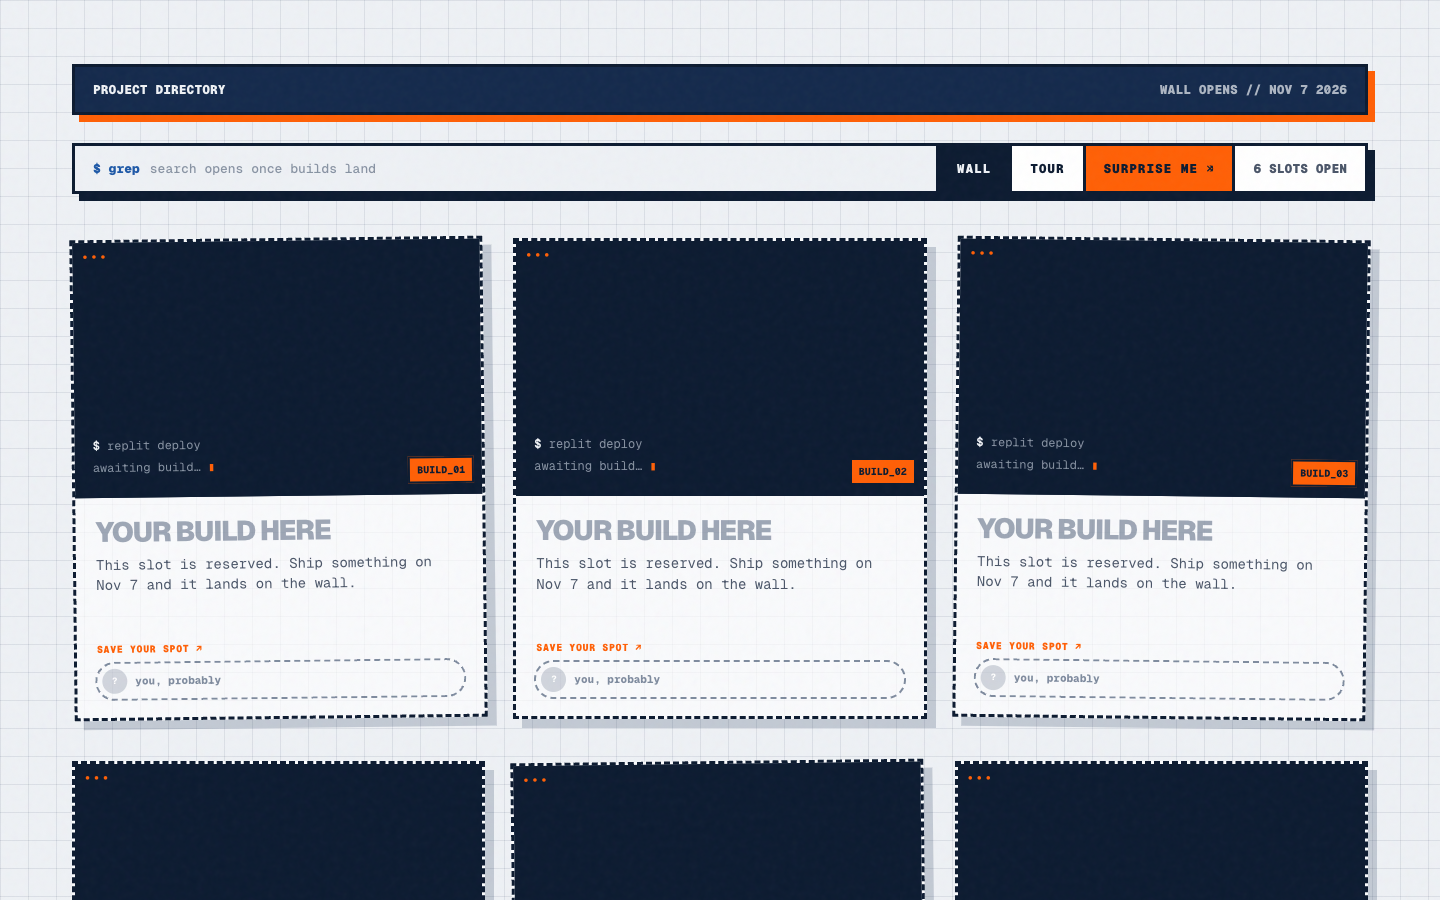
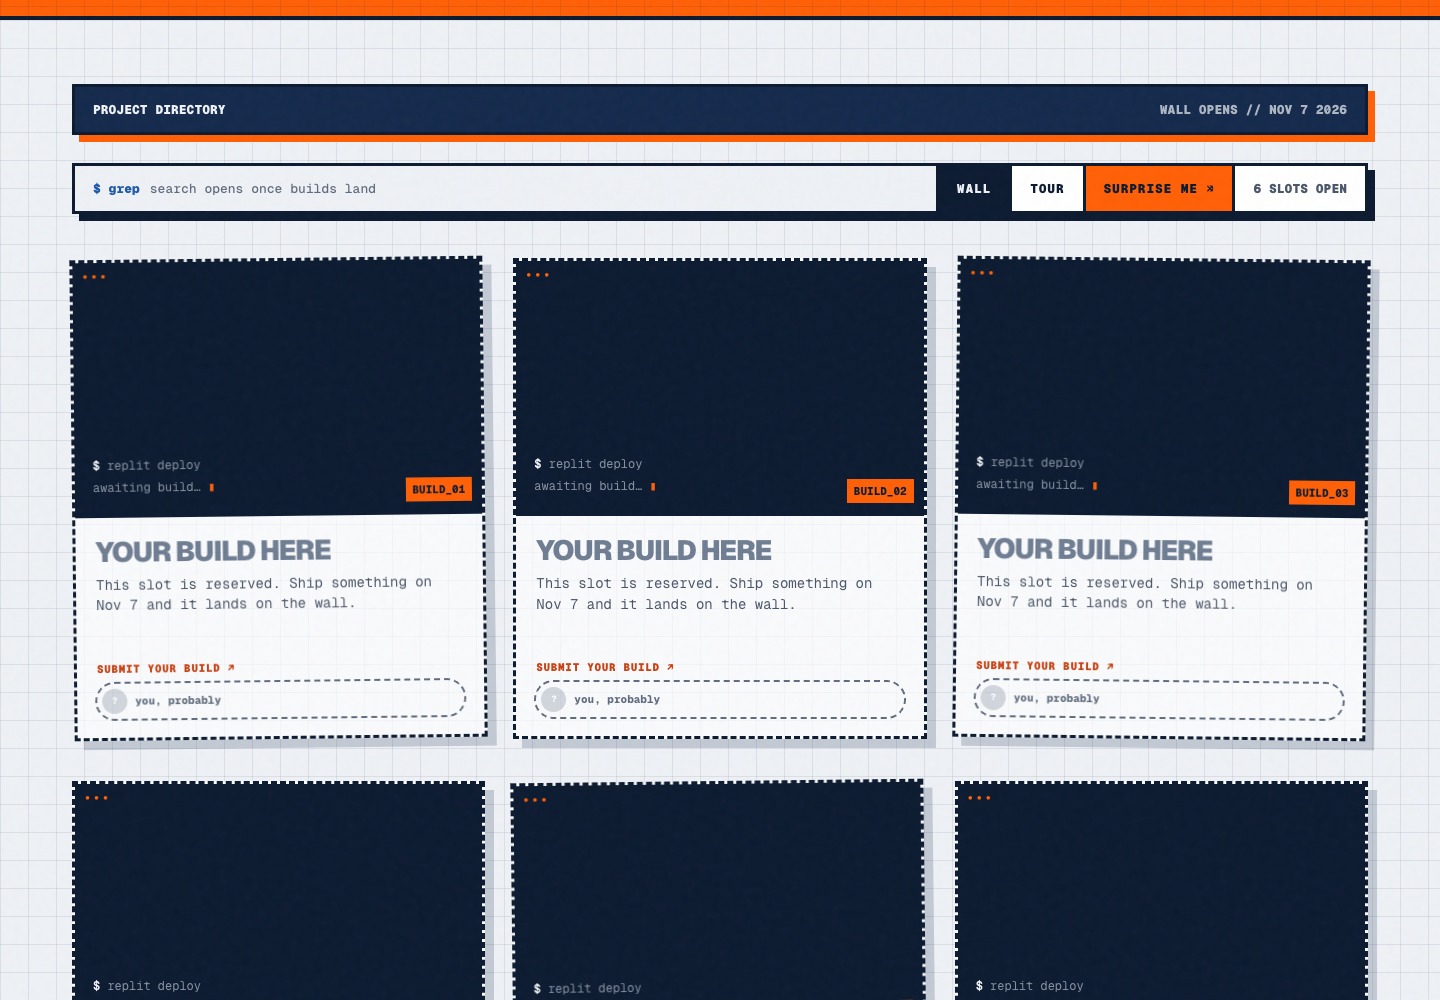
docs: README

diff --git a/README.md b/README.md
@@ -1,127 +1,153 @@
-<p align="center"><img src="app/apple-icon.png" width="88" height="88" alt="The Illinois Block I icon, orange on Illini blue"></p>
+# UIUC Learnathon
 
-# Disruption Lab × Replit Learnathon
+**The event site for Disruption Lab × Replit's build day at UIUC: sign-up steps, schedule and awards before the event, a wall of every attendee's live app after it.**
 
-**The event site and project wall for a beginner AI build day at UIUC.** Before the event it gets students signed up; afterwards it becomes a public wall of every app they shipped with Replit.
+**[Try it → learnathon.bhanusadhu.com](https://learnathon.bhanusadhu.com)** (free, no sign-in)
 
-**[Visit → learnathon.bhanusadhu.com](https://learnathon.bhanusadhu.com)** · Saturday, Nov 7, 2026, CIF Monumental Steps.
-
-![Demo, recorded before the event: the hero counts down to build day, the event details open, the guide shows the sign-up steps, the FAQ answers "Do I need coding experience?", and the project wall shows reserved "Your build here" slots, then tour mode steps through them](docs/images/demo.gif)
+![30-second screen recording in dark mode: the build-day popover opens, the event guide scrolls past, then the project wall switches to tour mode and picks a random slot with Surprise Me](docs/images/demo.gif)
 
 ## The problem
 
-Most students have heard you can build an app with AI, but few have shipped one, and a club workshop usually ends with half-finished projects on laptops that nobody sees again. The Disruption Lab at Gies and Replit wanted an afternoon where anyone, with no coding experience, leaves with a live app. Every one of those apps should then have somewhere public to live.
+A three-hour build day for beginners produces a pile of Replit apps and nowhere to put them. The apps end up as links in a group chat, the organizers need a sign-up flow and a schedule in the meantime, and attendees who built something have no single page to share.
 
-The goal: **turn interest into sign-ups before Nov 7, and turn every app shipped that day into a link on the wall.**
+The goal: **every attendee who builds ends the day with a live app on one public wall, and a link they can send to anyone.**
 
 ## How it works
 
-1. **Get interested.** The hero states the promise (one afternoon, zero experience, a live app) and counts down to build day. The details card has the time, place, calendar links and directions.
-2. **Sign up.** Three required steps in order: a Luma RSVP, a pre-event form, and a post-event form at the end of the day that also puts the build on the wall.
-3. **Build.** On the day, students build with Replit and publish their app.
-4. **Land on the wall.** Submissions are imported into the site, each live app is screenshotted, and the build gets a card, its own share page and, for winners, an award ribbon.
-5. **Browse.** Search the wall, let tour mode cycle through builds every 8 seconds on a big screen, or hit Surprise me.
+1. **RSVP** on Luma. This is the headcount and is required to attend.
+2. **Pre-event form** (Google Form). Required, so the organizers know who is coming.
+3. **Build** with Replit at the CIF Monumental Steps, 12:45 to 2:10 PM, after a talk and live demo from Replit's Head of Education.
+4. **Submit your Replit link** in the post-event form at 2:10. No form, no spot on the wall.
+5. **Showcase**: the organizers import the responses, and the wall fills with one card per build. Winners get a ribbon and the top spots.
 
-<p align="center"><img src="docs/images/guide.png" width="80%" alt="The event guide: three numbered steps (Luma RSVP, pre-event form, post-event form), then itinerary, prizes, food and an FAQ"></p>
+![Event guide section: three numbered steps, itinerary with calendar buttons, prizes and awards, perks, guest card and FAQ](docs/images/guide.png)
 
 ## Product decisions
 
 | Decision | Trade-off |
 | --- | --- |
-| **A static site fed by one JSON file, no database** | Updating the wall means importing and redeploying. In return there is nothing to log into and nothing to break on event day, and hosting is free. |
-| **Google Forms for the pre-event form and submissions** | Exports are manual CSV downloads. But organizers already run forms there, students trust them, and uploads like headshots come for free. |
-| **The wall is live before the event, with reserved slots** | An empty wall looks bare. Showing "Your build here" slots makes the promise concrete, and each slot links to sign-up. |
-| **No form, no spot on the wall** | Some builds won't appear. The post-event form is how a student consents to being shown and gives the right link. |
-| **One config for the event** | Date, time, place, links and FAQ live in one file, so a change to the domain or time updates the page, the link previews and the calendar files together. |
-| **Built for a projector too** | Tour mode and Surprise me add code. But the wall gets shown on a screen during the event, so it needed to play by itself. |
+| **No database: content lives in two files and git** (`data/event.ts`, `data/projects.json`) | Updating the site means editing a file and pushing, not clicking in an admin panel. In return there is no backend to fail on event day, the whole site is static, and hosting costs $0. |
+| **Submissions go through a Google Form, not an in-app form** | An organizer runs one import command per batch instead of builds appearing live. In return there is no auth, no spam surface and no moderation queue to build. |
+| **Three required steps (RSVP, pre-form, post-form)** | More friction than one sign-up. The cost buys a headcount before the day and a Replit link from every attendee at 2:10, which is what fills the wall. |
+| **The wall opens before the event with 6 reserved slots** | A "your build here" placeholder is less honest than hiding the wall, but an empty page would not show what attendees are building toward. Search stays off until real builds exist. |
+| **Tour mode for the projector** | Auto-advances every 8 seconds with pause and arrow keys. It is built for the awards showcase, so the grid stays the default on phones. |
+| **Several winners can share "Honorable Mention"** | The award string is `Honorable Mention: <reason>`, so reasons can be decided on the day without a code change. Winners are listed in a dropdown in the guide. |
+
+![Project wall before the event: a search bar, wall and tour toggle, a Surprise Me button, and a grid of six reserved build slots](docs/images/wall.png)
 
 ## Architecture
 
 ```mermaid
 flowchart TD
-  subgraph forms["Event day"]
+  subgraph Intake["Intake"]
     direction LR
-    form["Google Form<br/>post-event submissions"] --> csv["Responses CSV<br/>+ headshot uploads"]
+    form["Post-event<br/>Google Form"] --> csv["CSV export"] --> imp["import-form"] --> shots["screenshots"]
   end
-  subgraph pipe["Import, on a laptop"]
+  subgraph Source["Content"]
     direction LR
-    imp["import-form<br/>CSV to projects.json"] --> shots["screenshots<br/>Chrome captures each app"]
+    event["data/event.ts"] ~~~ json["data/projects.json"]
   end
-  subgraph site["Next.js on Vercel"]
+  subgraph Build["Next.js build"]
     direction LR
-    wall["Wall<br/>search, tour, surprise"] ~~~ pages["Project pages<br/>share images"] ~~~ cal["Calendar<br/>Google link, .ics"]
+    pages["Wall + /p/slug pages"] ~~~ og["Link-preview images"] ~~~ ics["learnathon.ics"]
   end
-  forms --> pipe
-  pipe -->|"commit and push"| site
+  subgraph Browser["Browser"]
+    direction LR
+    wall["Search, tour,<br/>surprise me"] ~~~ clock["Countdown"]
+  end
+  Intake --> Source --> Build --> Browser
 ```
 
-Every page, including one per project, is generated at build time from `data/event.ts` and `data/projects.json`. → [`data/event.ts`](data/event.ts), [`lib/projects.ts`](lib/projects.ts)
+Everything is prerendered at build time (7 routes, no server code at runtime). `import-form` and `screenshots` run on an organizer's laptop; Vercel rebuilds on every push to `main`. The only client-side state is the wall's search, view mode and the countdown.
 
 ## Hard problems
 
-**A form becomes a wall without a backend.** The importer turns the responses CSV into `projects.json` and matches headshot uploads back to their rows by the file names Google Forms gives them ("photo - Respondent Name.jpg"). Re-running it is safe: fields set by hand, like a winner's award and the screenshot path, are kept by slug, so organizers can import, pick winners and import again. → [`scripts/import-form.mjs`](scripts/import-form.mjs)
+**One source of truth for a page that changes state.** The site has to work as an invite before the event and a showcase after it, and every date, link and prize shows up in several places (hero, popover, guide, FAQ, calendar, link preview). All of it reads from [data/event.ts](data/event.ts). The Google Calendar link and the `.ics` file in [lib/calendar.ts](lib/calendar.ts) are generated from the same start and end timestamps, with RFC 5545 escaping and 75-octet line folding. The page title, link preview and hero copy switch on `projects.length`, so importing the first build flips the site from invite to showcase with no other change.
 
-**A screenshot of every live app.** Each card needs a picture of the app itself, not a logo. A script opens every submitted Replit link in the installed Chrome, captures it, and records the path. By default it only shoots projects that don't have one yet, and it can redo everything or a chosen few. → [`scripts/screenshots.mjs`](scripts/screenshots.mjs)
+**An importer that is safe to re-run.** Form exports are messy: quoted fields, newlines inside answers, duplicate submissions, and headshot uploads that Google names `<original name> - <Respondent Name>.jpg`. [scripts/import-form.mjs](scripts/import-form.mjs) has its own RFC 4180 parser, matches columns by header pattern, keeps the latest submission per project title, and matches uploads back to rows by respondent name. Re-running keeps `award` and `screenshot` fields already in `projects.json` (matched by slug), so organizers can import, set winners and import again. It reports unmatched columns and skipped rows instead of guessing.
 
-**Links that look right when shared.** Every build has its own static page with a generated preview image, so a student's link shows their project in a group chat, not the event. The event's own preview image uses the same type and optical alignment as the headline, and the calendar invite and Google Calendar link are generated from the same event config. → [`app/p/[slug]`](app/p/%5Bslug%5D)
+**Smooth scroll, scroll reveals and React fighting each other.** Combining Lenis, in-page anchors and React re-renders caused three problems, each fixed with a comment in the code:
+- Lenis's own `anchors` option does not cancel the browser's native jump, so the two animated against each other. [SmoothScroll.tsx](components/SmoothScroll.tsx) handles `#` links itself.
+- React rewrites `className` on re-render and would drop the "revealed" class and hide cards that had already animated in. [Reveal.tsx](components/Reveal.tsx) marks revealed elements with a `data-in` attribute.
+- Award links in the guide have to open a card in the wall, even from tour view or a filtered search. [WallBrowser.tsx](components/WallBrowser.tsx) listens in the capture phase so it runs before the scroll handler, clears search and switches back to the grid first.
+
+Users who prefer reduced motion get plain scrolling, no reveals and a tour that does not auto-advance.
 
 ## Results
 
-The event hasn't happened yet, so there are no outcomes to report. What it will be judged on is the funnel the site is built around:
+| Check | Result | What it means |
+| --- | --- | --- |
+| Lighthouse, desktop (live site) | **100 / 100 / 100 / 100** | Performance, accessibility, best practices, SEO. LCP **0.6 s**, CLS **0**. |
+| Lighthouse, mobile (live site) | **94 / 100 / 100 / 100** | Same four categories. LCP **3.0 s**, CLS **0**, TBT **10 ms**. |
+| `tsc --noEmit` | **0 errors** | The whole app is strict TypeScript. |
+| `next build` | **7 routes**, all static | No runtime server code to fail. |
 
-| Step | Counted from |
-| --- | --- |
-| RSVPed | Luma RSVPs |
-| Registered | Pre-event form responses |
-| Shipped | Post-event form submissions |
-| On the wall | Projects in `data/projects.json` |
+Scores come from Lighthouse 12 run against the production URL with its default throttling.
 
-Checked so far: the site builds statically, with a page per project. An accessibility and craft pass from a design audit covered contrast, focus and motion. Smooth scrolling and reveal animations respect reduced-motion settings.
+**Not measured yet:** there are no automated tests in this repo, so the importer and the award matching are checked by hand. There is no real-user data, since the event had not happened when this was written. Whether attendees actually submit a build, and how many, is the number that decides if the site worked.
 
 ## How it was built
 
-1. **The wall first.** A project data model, the event config, and a wall of project cards with empty slots in UIUC branding.
-2. **The pipeline.** The Google Form importer and the automatic screenshot script.
-3. **The event page.** Event guide, countdown, form links, calendar files, FAQ and Disruption Lab socials.
-4. **Identity.** The Illinois palette (Illini blue, orange accents), the Block I icon, and a headline tuned until it matched the link preview.
-5. **Browsing.** Wall search, tour mode, Surprise me and per-project share pages, then an accessibility and craft pass.
+1. **Wall first.** Scaffolded Next.js and Tailwind, defined the project data model, and built the card wall with reserved empty slots.
+2. **Import pipeline.** Wrote the Google Form CSV importer and a script that screenshots each submitted Replit app, so organizers never hand-edit the wall.
+3. **Event guide.** Added the countdown, FAQ, calendar links and the form steps, then moved the site to its own subdomain.
+4. **Brand and link previews.** Rebuilt the look in the Illinois palette after the first version sat too close to its reference, and made the link-preview image match the headline.
+5. **Wall tools.** Added search, tour mode, Surprise Me and a shareable page per build, plus the Lenis smooth-scroll and reveal motion.
+6. **Event-week details.** Swapped the interest form for a Luma RSVP, then added the itinerary, award categories with honorable mentions, perks and the guest card.
 
 ## Tech stack
 
 | Layer | Technology |
 | --- | --- |
-| Site | Next.js (App Router, static generation), React, TypeScript, Tailwind CSS |
-| Type and motion | Geist Sans and Mono, Lenis smooth scrolling |
-| Data | `data/event.ts`, `data/projects.json` from Google Forms |
-| Tooling | Node scripts, `playwright-core` with the installed Chrome |
-| Hosting | Vercel |
+| Frontend | Next.js 16 (App Router), React 19, TypeScript, Tailwind CSS 4, Geist fonts, Lenis |
+| Data | `data/event.ts` and `data/projects.json`, committed to git |
+| Scripts | Node: CSV importer, Playwright-based screenshot capture (uses installed Chrome) |
+| Link previews | `next/og` image routes for the site and for each build |
+| Hosting | **$0**: Vercel Hobby, deployed on push to `main` |
 
 ## Run it locally
 
 ```bash
 npm install
-npm run dev                                               # http://localhost:3000
+npm run dev                  # http://localhost:3000
+npx tsc --noEmit             # typecheck
+npm run build                # production build, must pass before pushing
+
+# After the event: turn the post-event form into the wall
 npm run import-form -- form-data/responses.csv --uploads form-data/uploads
-npm run screenshots                                       # capture apps missing a screenshot
-npm run build                                             # static build, one page per project
+npm run screenshots          # capture each live app (add --all to redo every one)
 ```
 
-Event details live in `data/event.ts`. Pushes to `main` deploy on Vercel.
+No environment variables are needed. `form-data/` is git-ignored because the raw export contains emails.
 
 ## Project structure
 
 ```
-app/            # The page, per-project pages, preview images, calendar file
-components/     # Wall browser, tour, project card, event guide, terminal hero
-data/           # Event config and projects.json
-lib/            # Project loading, calendar links, preview image helpers
-scripts/        # Form importer and screenshot capture
-public/         # Brand assets, headshots, project screenshots
+app/
+  page.tsx                  # hero, guide and wall in one page
+  p/[slug]/                 # one shareable page + link preview per build
+  learnathon.ics/           # calendar download
+components/
+  WallBrowser.tsx           # search, wall/tour toggle, Surprise Me, deep links
+  Tour.tsx                  # auto-advancing projector view
+  EventGuide.tsx            # steps, itinerary, prizes, perks, guest, FAQ
+data/
+  event.ts                  # every date, link, prize and FAQ answer
+  projects.json             # the builds (written by import-form)
+lib/                        # calendar + .ics, award matching, shared types
+scripts/                    # import-form.mjs, screenshots.mjs
+docs/images/                # README screenshots and demo
 ```
 
 ## What's next
 
-Known limits:
-- Updating the wall needs a local import and a redeploy, so builds appear in batches, not live.
+**Known limits**
+- Mobile LCP is **3.0 s**; I have not traced which element it is or fixed it.
+- No automated tests. The importer is the riskiest code and is only exercised by hand.
+- A build only appears after an organizer runs the import and pushes, so the wall is not live during the event.
+- Screenshots of builds are captured once. A Replit app that changes later keeps its old image.
 
-Next: import the submissions after Nov 7, mark the winners, and report the funnel counts here.
+**Next**
+- After the event, record submission rate (post-form responses out of RSVPs) and how many builds were live, and put those numbers here.
+- Add a fixture CSV and a test that the importer keeps awards across a re-import.
+- Trace and fix the mobile LCP.
